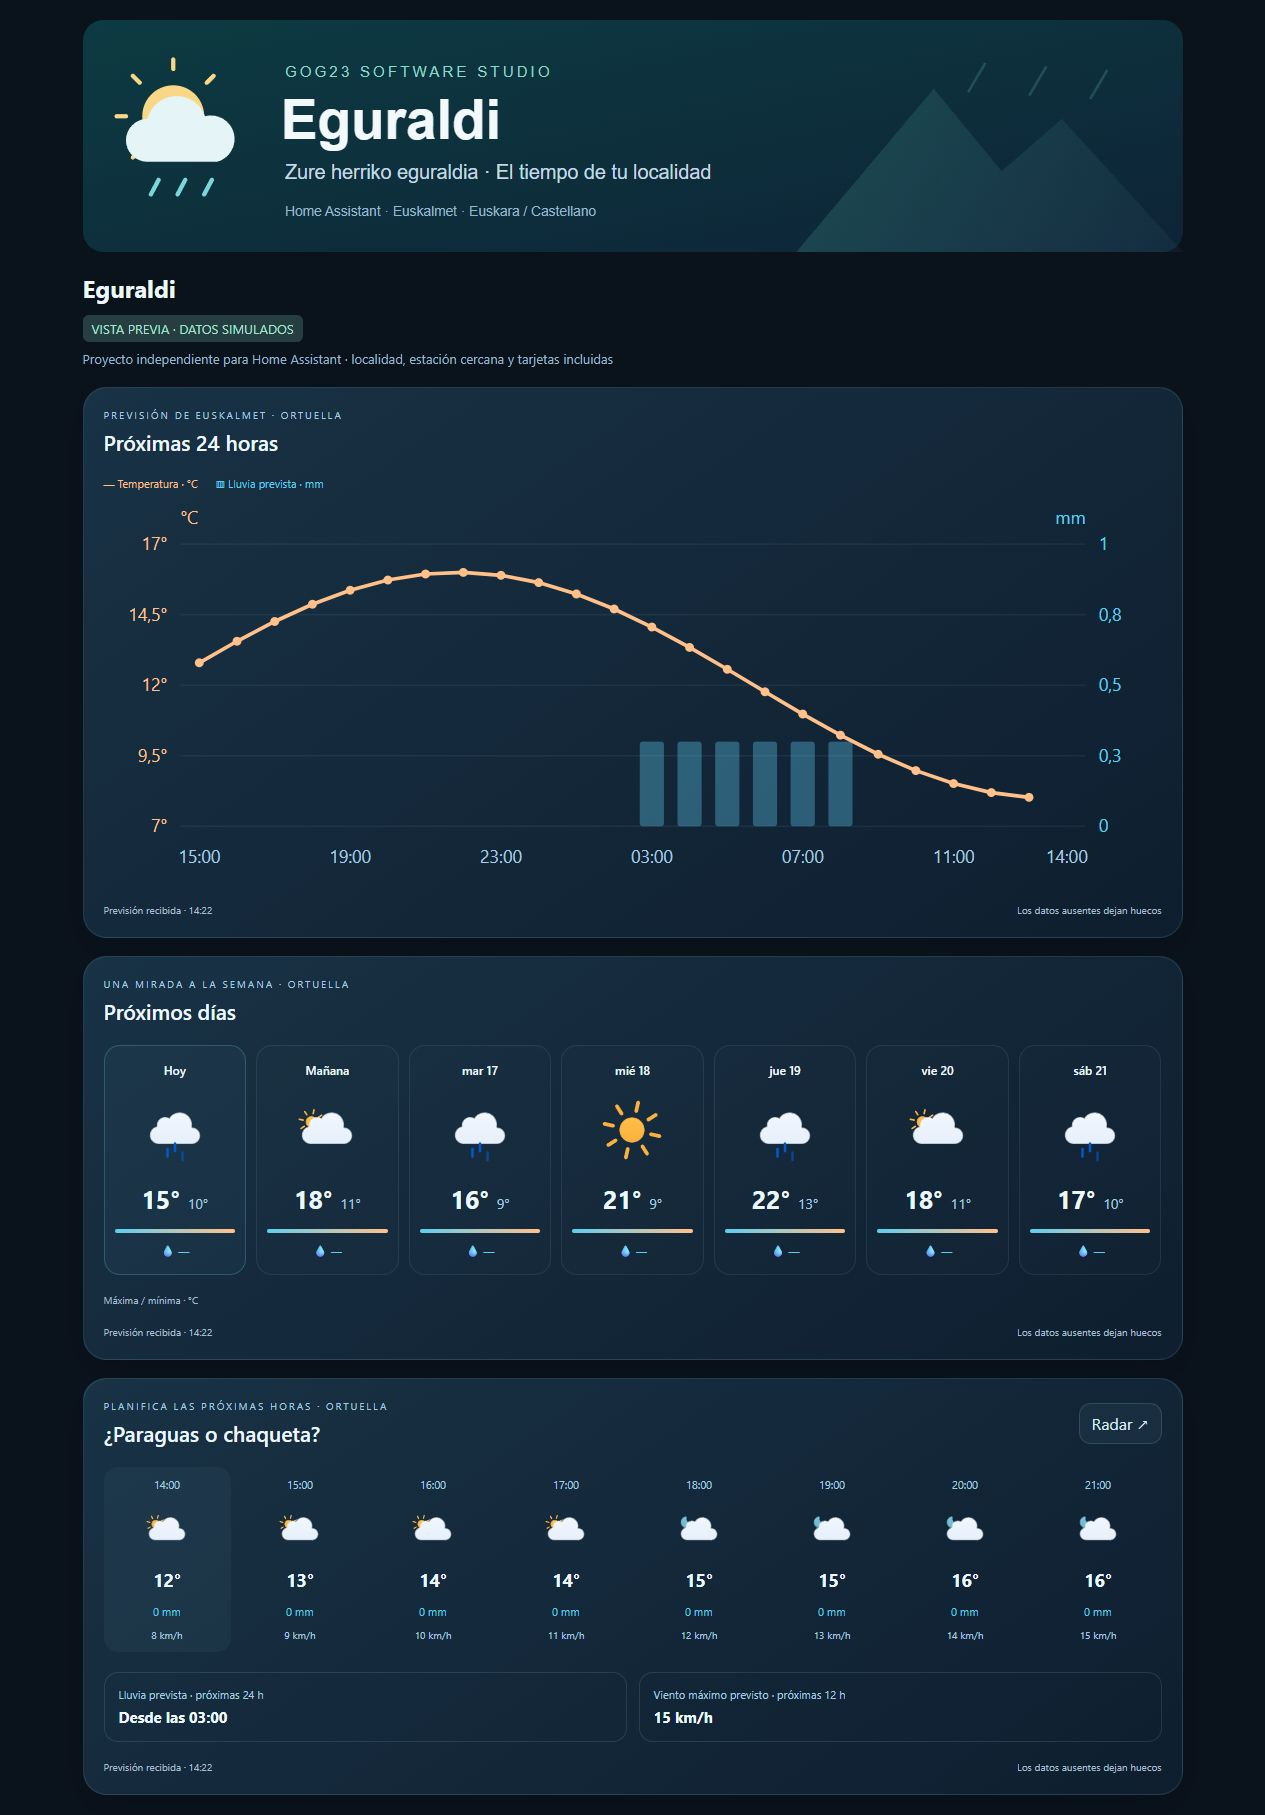
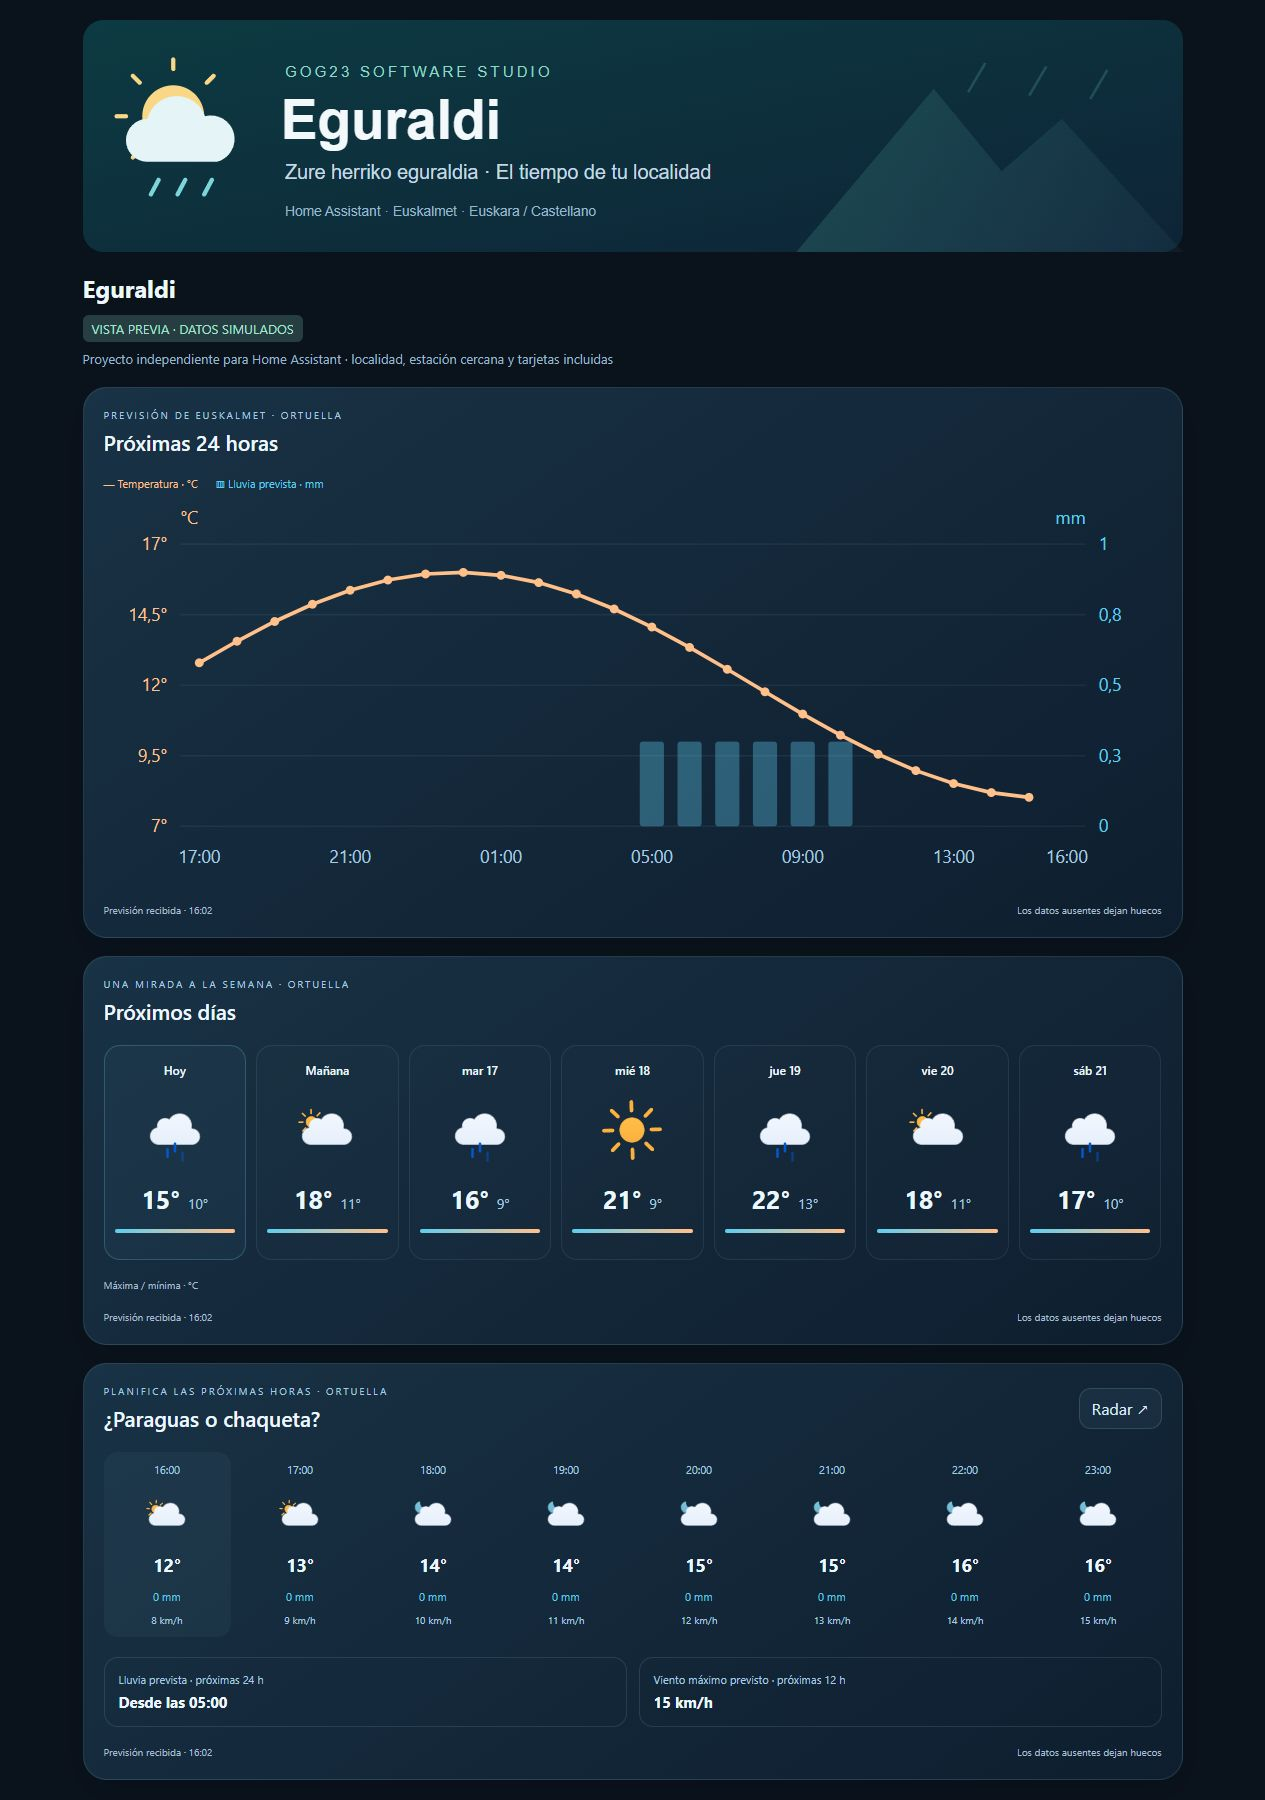
Refresh README forecast screenshots without empty daily rain rows

diff --git a/docs/preview.html b/docs/preview.html
@@ -6,7 +6,7 @@
 
 <script type="module">
 
-import {EuskalmetLocalCard} from '/euskalmet_local_static/euskalmet-local-card.js?v=0.1.3';
+import {EuskalmetLocalCard} from '/euskalmet_local_static/euskalmet-local-card.js?v=0.1.5';
 
 const now=new Date().setMinutes(0,0,0),loc={entry_id:'demo',locality:'Ortuella',station:'Arboleda',location_source:'home_assistant',distance_km:1.8,latitude:43.31,longitude:-3.05,entities:{weather:'weather.demo',temperature:'sensor.demo_temperature',humidity:'sensor.demo_humidity',precipitation_today:'sensor.demo_rain',temperature_min_today:'sensor.demo_min',temperature_max_today:'sensor.demo_max',wind_gust_max_today:'sensor.demo_gust',irradiance:'sensor.demo_irradiance'}};
 
